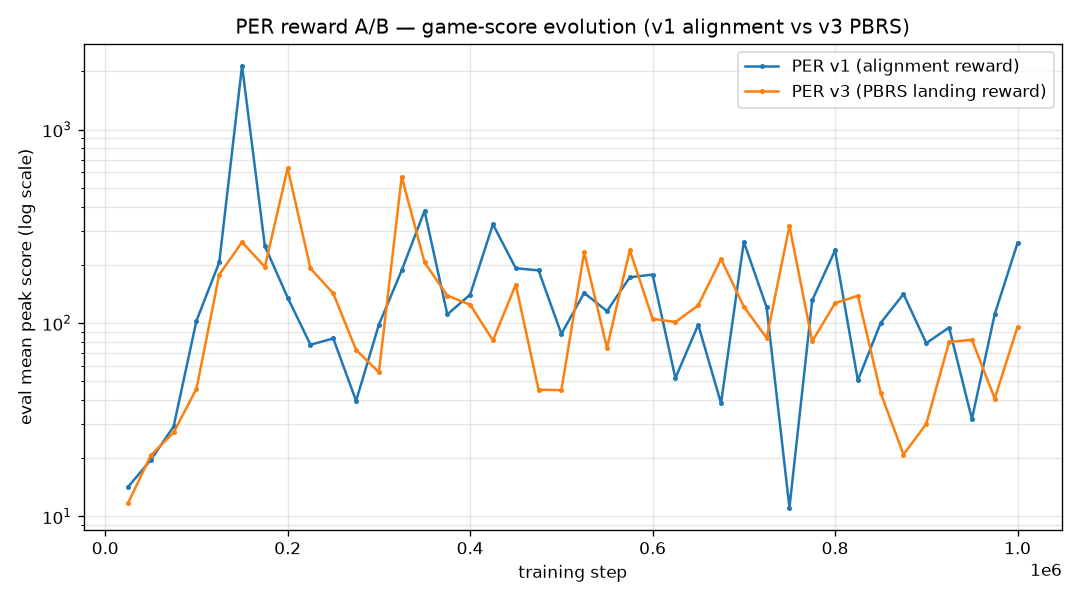
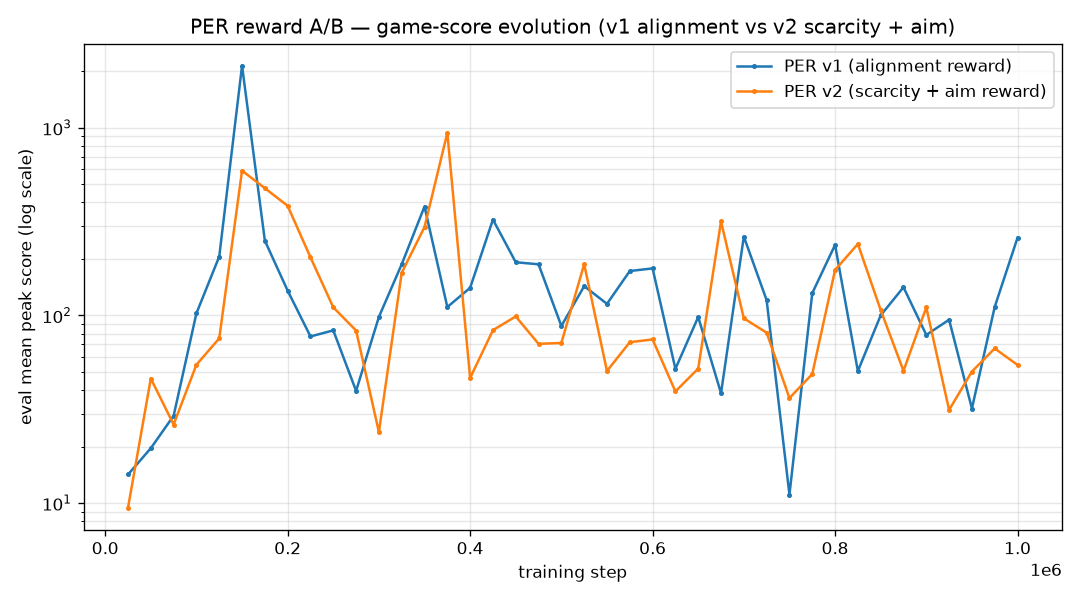
update on readme

diff --git a/agents/dqn/plots.py b/agents/dqn/plots.py
@@ -104,13 +104,13 @@ def plot_reward_ab(series, out):
     if "per_dqn" in series:
         s, v = series["per_dqn"]
         plt.plot(s, v, marker=".", ms=4, label="PER v1 (alignment reward)")
-    s2, v2 = tb_scalar(os.path.join(TB_DIR, "per_dqn_v3"))
+    s2, v2 = tb_scalar(os.path.join(TB_DIR, "per_dqn_v4"))
     if s2:
-        plt.plot(s2, v2, marker=".", ms=4, label="PER v3 (PBRS landing reward)")
+        plt.plot(s2, v2, marker=".", ms=4, label="PER v2 (scarcity + aim reward)")
     plt.yscale("log")
     plt.xlabel("training step")
     plt.ylabel("eval mean peak score (log scale)")
-    plt.title("PER reward A/B — game-score evolution (v1 alignment vs v3 PBRS)")
+    plt.title("PER reward A/B — game-score evolution (v1 alignment vs v2 scarcity + aim)")
     plt.legend()
     plt.grid(True, which="both", alpha=0.3)
     plt.tight_layout()

diff --git a/agents/environment.py b/agents/environment.py
@@ -43,8 +43,6 @@ class BreakoutEnv(gym.Env):
         death_penalty: float = 20.0,
         align_coef: float = 0.02,
         aim_coef: float = 0.02,
-        shape_coef: float = 0.5,
-        gamma: float = 0.99,
     ) -> None:
         super().__init__()
         self.dt = dt
@@ -54,8 +52,6 @@ class BreakoutEnv(gym.Env):
         self.death_penalty = death_penalty
         self.align_coef = align_coef
         self.aim_coef = aim_coef
-        self.shape_coef = shape_coef
-        self.gamma = gamma
 
         self.game = Breakout()
         self.observation_space = spaces.Box(

diff --git a/README.md b/README.md
@@ -144,8 +144,8 @@ and hyperparameters are set in [agents/environment.py](agents/environment.py)
 
 The base project ships only the raw game — a physics simulation
 ([server/logic.py](server/logic.py)) that exposes the current game state and
-accepts paddle moves over WebSocket. To train RL agents on it, we wrap that
-simulation in a **Gymnasium environment**, [`BreakoutEnv`](agents/environment.py).
+accepts paddle moves over WebSocket. To train RL agents on it, the simulation is  wrapped
+in a **Gymnasium environment**, [`BreakoutEnv`](agents/environment.py).
 
 The Gym wrapper is where the game becomes a formal **Markov Decision Process
 (MDP)**. Instead of dealing with the simulation directly, the wrapper defines, at
@@ -221,8 +221,8 @@ saved as `best_model`.
 Three standard algorithms were trained as
 **baselines**. Their purpose is to check how different algorithmic choices behave
 on this task, comparing distinct families of RL methods and to give the
-from-scratch work a reference to be measured against. For these we relied on
-**[Stable-Baselines3](https://stable-baselines3.readthedocs.io/) (SB3)**, which
+from-scratch work a reference to be measured against. For these
+**[Stable-Baselines3](https://stable-baselines3.readthedocs.io/) (SB3)** was used, which
 provides well-tested reference implementations of each algorithm. This lets us
 abstract away the algorithm internals and focus on the environment, the reward,
 and the evaluation, while still covering three different paradigms:
@@ -250,8 +250,8 @@ baselines use:
 
 ![SB3 baselines — peak-score distribution (30 greedy episodes)](figures/baselines_boxplots.png)
 
-**RecurrentPPO (explored, dropped).** We also briefly looked into **RecurrentPPO**
-(an LSTM-based policy from `sb3-contrib`), motivated by the idea that recurrence
+**RecurrentPPO (explored, dropped).** **RecurrentPPO**
+(an LSTM-based policy from `sb3-contrib`) was also briefly looked into, motivated by the idea that recurrence
 could replace frame-stacking by carrying the ball's motion in the hidden state. In
 practice it trained poorly and scored far below the feed-forward baselines, so it
 was not pursued further.
@@ -259,10 +259,9 @@ was not pursued further.
 <!-- =================================================================== -->
 ## From-scratch DQN Variants
 
-Beyond the SB3 baselines, we implemented five DQN variants **from scratch** in
+Beyond the SB3 baselines, five DQN variants were implemented **from scratch** in
 PyTorch ([agents/dqn/](agents/dqn/)). They all share the **same Q-network and the
-same training loop** — only one targeted component changes between them — so the
-comparison isolates the effect of each idea.
+same training loop**, so the comparison isolates the effect of each idea.
 
 **The network** is a small MLP: the stacked observation (`4 × 19 = 76` inputs)
 feeds two hidden layers of 256 units (ReLU) that output one Q-value per action.
@@ -297,13 +296,12 @@ _Reference baselines: SB3 DQN median 218 · SB3 PPO median 288._
 
 ![Per-episode peak-score distribution by variant](figures/boxplots.png)
 
-**PER is the clear winner.** It reaches a median peak score of **1983** — roughly
-**10× every other variant** (medians 139–278) and well above the SB3 baselines —
-and clears ~17.6 boards per episode. It is also the **most consistent**: it cleared
-at least one full board in **all 30 episodes** (100%, versus 43–73% for the
+**PER is the clear winner.** It reaches a median peak score of **1983**, roughly
+**10× every other variant**, and clears ~17.6 boards per episode. It is also the 
+**most consistent**: it cleared at least one full board in **all 30 episodes** (100%, versus 43–73% for the
 others), and even its worst episode (634) beats the others' *typical* scores.
 Relative to its own level its spread is the smallest of the five (std/mean ≈ 0.6,
-versus ≈ 0.8–0.95), so PER did not just raise the ceiling — it removed the frequent
+versus ≈ 0.8–0.95), so PER did not just raise the ceiling, it removed the frequent
 near-zero episodes that drag the other variants down. In the boxplot this shows as
 a distribution sitting far higher whose lower whisker never drops toward zero,
 unlike the long low tails of the other variants.
@@ -311,10 +309,10 @@ unlike the long low tails of the other variants.
 <!-- =================================================================== -->
 ## Reward Design
 
-We experimented with **two reward functions**, both defined in
+**Two reward functions** were experimented with, both defined in
 [agents/environment.py](agents/environment.py) (`calculate_reward` and
-`calculate_reward_v2`). They share the same backbone and differ only in one dense
-shaping term.
+`calculate_reward_v2`). They share the same task backbone and differ in how they
+reward breaking bricks and in the dense shaping term each one adds.
 
 **Shared part — the task reward.** Both encode the actual objective straight from
 game events:
@@ -331,26 +329,27 @@ small per-step term to guide the paddle *between* those sparse events:
 
 - **First reward — alignment.** A bonus on every descending step for keeping the
   paddle aligned with the ball's *current* horizontal position. In practice this
-  turned out **too safe**: the agent is rewarded simply for sitting under the ball
-  — a defensive "keep it in play" behaviour it can accumulate without ever pressing
+  turned out **too safe**: the agent is rewarded simply for sitting under the ball:
+  a defensive "keep it in play" behaviour it can accumulate without ever pressing
   to attack and break bricks, so the dense bonus tends to overshadow the real
   scoring goal.
-- **Second reward — potential-based shaping (PBRS).** Replaces the alignment bonus
-  with a *potential-based* term over the ball's **predicted landing point**
-  (`F = γ·Φ(s') − Φ(s)`, where `Φ` is the negative distance from the paddle to
-  where the ball will land). Being potential-based, it telescopes to roughly zero
-  over a trajectory, so it cannot be farmed and never overshadows the task reward —
-  the intent being to stop paying the agent for passive tracking and let breaking
-  bricks drive its behaviour instead.
+- **Second reward — scarcity + aim (offensive).** Tries to make the agent *attack*
+  bricks, with two changes. First, it weights each brick break by **scarcity**
+  (`16 / bricks remaining`), so finishing off the last, hard-to-reach bricks pays
+  far more than the easy opening ones. Second, it replaces the alignment bonus with
+  an **aim** term: it finds the nearest remaining brick and rewards the agent when
+  the ball is set to strike the paddle region (left / middle / right third) whose
+  bounce deflects it *toward* that brick. The intent is to stop paying for passive
+  tracking and instead reward aiming the ball at bricks.
 
-**Result.** Because the reward is an environment-level change, we tested it on a
+**Result.** Because the reward is an environment-level change, it was tested on a
 single algorithm — **PER**, the best model from the variant comparison. The second
-reward **did not yield better results**: as the A/B figure below shows (labelled
-`v1` for alignment and `v3` for PBRS), the two learning curves track each other
-closely, and the simpler alignment reward still produced the strongest agent. We
-therefore kept the first reward as the default.
+reward **did not yield better results**: as the A/B figure below shows (`v1`
+alignment vs `v2` scarcity + aim), the offensive reward trained consistently below
+the original and never approached its peaks, so the simpler alignment reward was
+kept as the default.
 
-![PER reward A/B — v1 alignment vs v3 PBRS](figures/reward_function.png)
+![PER reward A/B — v1 alignment vs v2 scarcity + aim](figures/reward_function.png)
 
 ## References
 